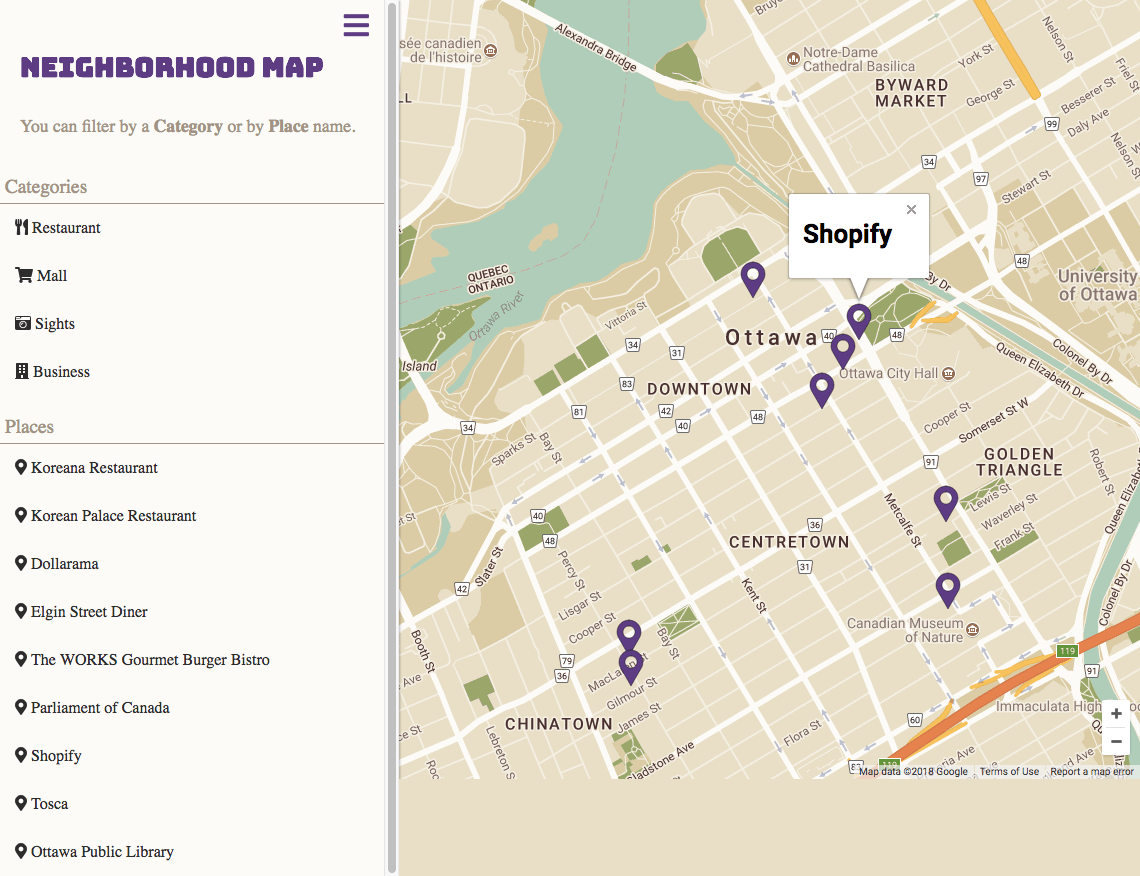
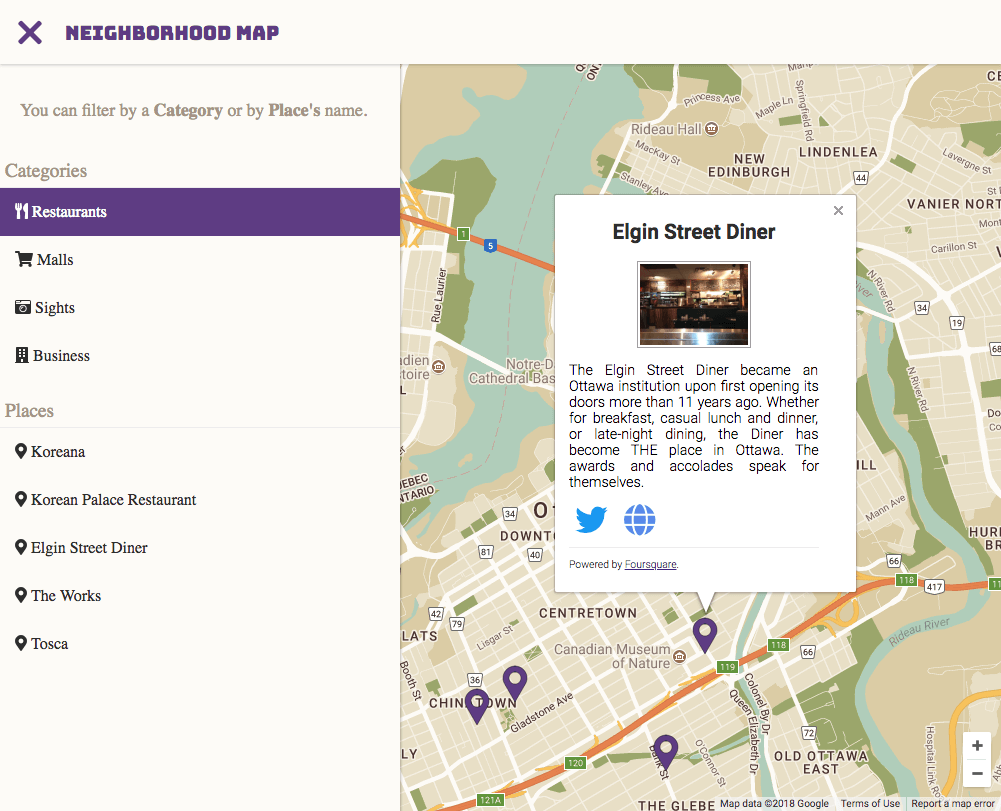
README and screenshot

diff --git a/README.md b/README.md
@@ -14,7 +14,8 @@ This project shows a map of a neighborhood and its sights that I want to visit. 
 
 <a name="features"></a>
 ## Features
-- [x] Google Maps
+- [x] Google Maps API
+- [x] Foursquare API
 - [x] React
 
 <a name="requirements"></a>
